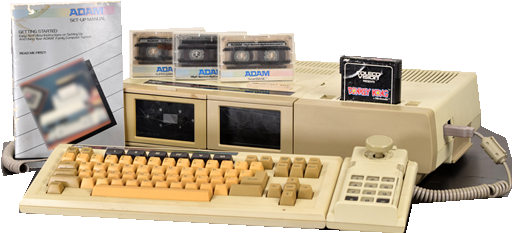
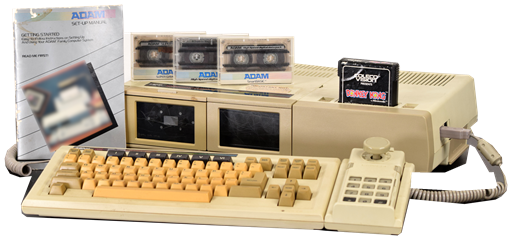
Refine ADAM photograph from original source and review machine artwork

diff --git a/docs/tasks/emulation/commun.md b/docs/tasks/emulation/commun.md
@@ -994,11 +994,36 @@ Livraison des deux reprises Coleco : 32 contrôles ciblés réussis ; build Debu
   - [x] Modifier docs/tasks/emulation/commun.md : consigner le build Debug complet et la présence des 23 modules et de gwgui.exe après remplacement du PNG, avec les dernières corrections App livrées.
   - [x] Modifier docs/tasks/emulation/commun.md : consigner les corrections réellement effectuées, leurs contrôles et leur livraison ; commiter avec les fichiers de production modifiés, sans commit de suivi isolé.
 
-- [ ] Reprendre Spectrum SE lorsque sa photographie complète sera disponible.
-  - [ ] Modifier src/GWGUI.Emulation.Sinclair/Assets/Machines/SpectrumSe.png si un défaut restant est confirmé : conserver la façade, les commandes, les proportions et la photographie réelle.
+- [x] Examiner les deux autres publications photographiques du prototype Spectrum SE pour préparer son remplacement.
+  - [x] Créer artifacts/spectrum-se-rework/ZXF03.pdf et ses images photographiques extraites : examiner la publication originale présentant le prototype et son clavier externe, sans utiliser une photo d un autre modèle.
+  - [x] Créer artifacts/spectrum-se-rework/Spectrumpedia.pdf : comparer la photographie du Spectrum SE publiée dans cette autre référence ; rejeter le candidat sombre de ZXF03 avant toute modification de production.
+  - [x] Créer artifacts/spectrum-se-rework/candidate.png et preview.png : détourer classiquement la photographie retenue, conserver le matériel réel et les proportions, maximum 512 px ; examiner les deux fonds avant remplacement.
+  - [x] Supprimer artifacts/spectrum-se-rework : retirer les publications et candidats rejetés, conserver le PNG de production jusqu à obtention d une vraie amélioration.
+
+- [x] Revoir le deuxième lot de dix photographies de machines Apple, Bandai, Coleco et Epoch.
+  - [x] Créer artifacts/machine-artwork-batch-02/preview.png : composer les dix photos sur fonds clair et sombre, avec leurs noms et leurs proportions ; libérer les ressources graphiques dans finally.
+  - [x] Modifier docs/tasks/emulation/commun.md : consigner les défauts réellement visibles et préparer les corrections précises de ces fichiers, sans modifier les images sur la seule couleur du fond transparent.
+  - [x] Créer artifacts/machine-artwork-batch-02/adam-source.jpg : récupérer la photographie haute définition de l ADAM publiée par Akbkuku et vérifier le cadrage réel avant remplacement du visuel actuel crénelé.
+  - [x] Créer artifacts/machine-artwork-batch-02/adam-candidate.png et adam-preview.png : détourer la machine réelle à partir de cette photographie, sans reconstruire les pièces, puis contrôler la transparence et la netteté sur deux fonds.
+  - [x] Modifier src/GWGUI.Emulation.Coleco/Assets/Machines/Adam.png et THIRD-PARTY-NOTICES.md : intégrer seulement le candidat fidèle améliorant effectivement le visuel, avec source et licence.
+  - [x] Supprimer les sources, candidats et planches possédés sous artifacts/machine-artwork-batch-02 après examen, puis le dossier temporaire vide.
+
+- [x] Poursuivre la revue des photographies de machines restantes avant un build groupé.
+  - [x] Créer artifacts/machine-artwork-remaining/batch-03.png à batch-08.png : afficher les photos restantes par lots de dix sur fond clair et sombre, noms et proportions conservés, libérer les ressources graphiques dans finally.
+  - [x] Modifier docs/tasks/emulation/commun.md : inscrire les défauts effectivement confirmés et les actions de leurs fichiers avant toute retouche supplémentaire.
+  - [x] Supprimer les planches possédées dans artifacts/machine-artwork-remaining après examen, puis le dossier vide.
+  - [x] Modifier docs/tasks/emulation/commun.md : consigner les modifications effectives et leur livraison après build complet ; commiter le groupe des visuels avec les crédits, sans push.
+- [ ] Terminer le remplacement de la photo Spectrum SE lorsque la source respecte la fidélité exigée.
+  - [ ] Modifier src/GWGUI.Emulation.Sinclair/Assets/Machines/SpectrumSe.png : intégrer une photographie du modèle exact mieux définie et mieux cadrée, sans substituer un Spectrum 48K ou Timex de série au prototype.
 
 Premier lot Acorn/Apple : contrôlé sur fonds clair et sombre. AppleIIJPlus montre un crénelage marqué et une définition insuffisante ; remplacement par une photo réelle plus nette à préparer. Les neuf autres photos ne montrent pas de large fond extérieur dans cette composition. La couleur claire des contours des IIe nécessite un examen rapproché avant de la supprimer ; aucune retouche fondée seulement sur leur couleur blanche.
 
 Revue des périphériques : 38 photos examinées sur fond clair et sombre. Franges extérieures corrigées pour Fairchild Channel F, Thomson MJ 90-102, Neo Geo Pocket et Neo Geo Pocket Color ; dimensions et cadrages conservés, aucune association ni zone modifiée. Spectrum SE est uniquement une photo de machine dans le module Sinclair, absente du catalogue App des manettes. La revue des machines est suspendue au profit des périphériques ; aucun candidat Apple J-Plus intégré. Sources et aperçus temporaires des deux revues supprimés, toutes les surfaces de traitement libérées. Aucun build ni test lancé pour ces seules corrections de pixels. Cette revue ne vaut pas acceptation visuelle de l utilisateur.
 
 Apple II J-Plus : photographie originale 2000 x 1497 remplacée après masque classique de la silhouette, sortie transparente 512 px maximum ; badge et caractères katakana conservés, contrôle sur fonds clair et sombre. Crédit RR Auction ajouté au fichier central. Source et candidats supprimés. Build Debug complet terminé code 0 via le script PowerShell existant ; gwgui.exe et 23 entryAssembly présents. SHA256 du PNG embarqué dans le module Apple identique au fichier source. Stream et contexte de lecture libérés, aucune fenêtre créée. Les corrections des quatre PNG de périphériques App précédentes sont également recompilées dans cette livraison. Aucun nouveau test ni script conservé.
+
+Recherche Spectrum SE : ZXF03 montre le prototype modifié sur base TC2048 avec clavier Cherry externe. Image extraite et remise à l endroit ; candidat du boîtier seul examiné puis rejeté car sombre et insuffisamment défini. Spectrumpedia volume 2 page 55 décrit le SE sans fournir une meilleure photographie. Site du constructeur inaccessible lors de la consultation. Aucun candidat intégré, aucune image de clavier ajoutée au catalogue des manettes ; remplacement SE toujours requis.
+
+Revue des lots 2 à 8 : les 70 autres photos examinées sur deux fonds. ADAM repris depuis l original Akbkuku 5885 x 3036, contour antialiasé, intérieur du câble détaché du fond, sortie 512 x 240 ; légendes et pièces conservées. Le candidat a été examiné avant intégration. Les photos de machines intègrent parfois leur clavier, leurs manettes ou leur carte mère : cela ne crée aucun périphérique de commande dans le catalogue App. Aucune substitution de modèle effectuée. Spectrum SE reste explicitement ouvert ; les sources comparées ne donnent pas encore un remplacement visuellement acceptable.
+
+Livraison ADAM : build Debug complet terminé code 0 ; application et 23 entryAssembly présents. Le PNG embarqué dans gwgui.emulation.coleco.dll a le même SHA256 que le fichier source. Stream et contexte de lecture libérés dans finally, aucune fenêtre créée pour ce contrôle. Tous les dossiers temporaires de cette tranche ont été supprimés. Cette livraison concerne la photo ADAM ; le remplacement Spectrum SE reste requis, aucun candidat rejeté n est livré.

diff --git a/THIRD-PARTY-NOTICES.md b/THIRD-PARTY-NOTICES.md
@@ -133,3 +133,11 @@ Asset: `src/GWGUI.Emulation.Apple/Assets/Machines/AppleIIJPlus.png`.
 Source photograph published by RR Auction: https://www.rrauction.com/auctions/lot-detail/349793807146036-apple-ii-j-plus-computer/.
 Original: https://cdn.rrauction.com/auction/714/3497938_1.jpg
 Adaptation: classical silhouette alpha masking of the actual computer and proportional resizing to a maximum dimension of 512 pixels, with transparent padding. The original Apple II J-Plus badge, katakana keyboard legends and complete case are preserved. No generated hardware, lettering or logos. No open license is asserted for this source photograph.
+
+## Coleco ADAM photograph
+
+Asset: `src/GWGUI.Emulation.Coleco/Assets/Machines/Adam.png`.
+Photograph by Akbkuku (Shelby Jueden), 16 July 2023. Published under Creative Commons Attribution 4.0 International: https://creativecommons.org/licenses/by/4.0/.
+Source: https://commons.wikimedia.org/wiki/File:Coleco-ADAM-computer-with-parts_(edit).jpg ; packaging edit by DigitalIceAge.
+Original: https://upload.wikimedia.org/wikipedia/commons/e/eb/Coleco-ADAM-computer-with-parts_%28edit%29.jpg
+Adaptation: classical silhouette alpha mask, removal of exterior background enclosed by the cable, proportional resizing to 512 x 240 pixels with transparent padding. Photographed hardware, cable, software and documentation are preserved; no generated or reconstructed components or lettering.
